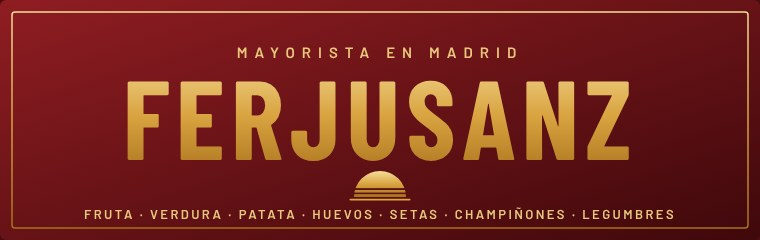
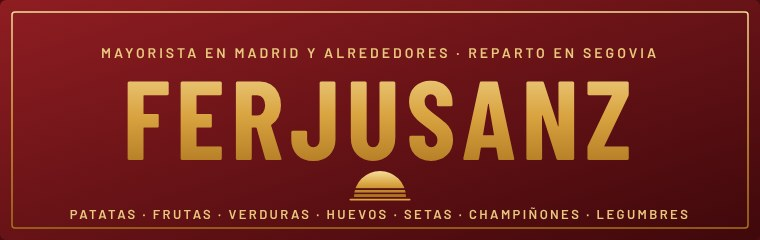
Normal v526: lema en plural y etiqueta Madrid y alrededores
Claude-Session: https://claude.ai/code/session_01VB7xFS7qSDwvsHkpYjW2Um

Changed region(s): [[0.1211, 0.175, 0.8776, 0.2625], [0.0908, 0.875, 0.9079, 0.9333]]

diff --git a/public/nuevos-clientes.html b/public/nuevos-clientes.html
@@ -4,7 +4,7 @@
 <meta charset="utf-8">
 <meta name="viewport" content="width=device-width, initial-scale=1">
 <title>Ferjusanz · Fruta y verdura de Mercamadrid para tu cocina</title>
-<meta name="description" content="Mayorista de fruta, verdura, patatas, huevos, setas, champiñones y legumbres en Mercamadrid. Reparto en Madrid y Segovia, sin pedido mínimo. Pide tu primer pedido de prueba para tu restaurante, bar, colegio o residencia.">
+<meta name="description" content="Mayorista de patatas, frutas, verduras, huevos, setas, champiñones y legumbres en Mercamadrid. Reparto en Madrid y Segovia, sin pedido mínimo. Pide tu primer pedido de prueba para tu restaurante, bar, colegio o residencia.">
 <meta property="og:title" content="Ferjusanz · Pide tu primer pedido de prueba">
 <meta property="og:description" content="Fruta y verdura de Mercamadrid para hostelería y colectividades de Madrid y Segovia. Sin pedido mínimo.">
 <meta name="theme-color" content="#166534">
@@ -72,7 +72,7 @@ footer a { color: var(--gris); }
 <section class="ancho">
   <h2>¿Por qué Ferjusanz?</h2>
   <div class="ventajas">
-    <div class="ventaja"><span class="ico">🏪</span><div><b>Desde dentro de Mercamadrid</b>Mayorista de fruta, verdura, patatas, huevos, setas, champiñones y legumbres. Tres generaciones en el sector.</div></div>
+    <div class="ventaja"><span class="ico">🏪</span><div><b>Desde dentro de Mercamadrid</b>Mayorista de patatas, frutas, verduras, huevos, setas, champiñones y legumbres. Tres generaciones en el sector.</div></div>
     <div class="ventaja"><span class="ico">🚚</span><div><b>Sin pedido mínimo</b>Repartimos en Madrid y Segovia. Pide lo que necesites, aunque sea poco.</div></div>
     <div class="ventaja"><span class="ico">🥬</span><div><b>Género elegido para tu cocina</b>Te decimos qué está bueno y a buen precio cada semana.</div></div>
     <div class="ventaja"><span class="ico">📲</span><div><b>Pedir es fácil</b>Por teléfono o WhatsApp. Si no ves un producto, te lo buscamos.</div></div>

diff --git a/public/sw.js b/public/sw.js
@@ -1,7 +1,7 @@
 // Service worker de Ferjusanz: permite abrir la app sin conexión.
 // Guarda la propia app y la librería de Supabase. Los datos NUNCA se guardan aquí
 // (las llamadas a supabase.co siempre van a la red).
-const CACHE = 'ferjusanz-v524';
+const CACHE = 'ferjusanz-v526';
 const SHELL = ['./', 'index.html', 'manifest.webmanifest', 'icon-192.png?v=sol', 'icon-512.png?v=sol', 'pres/logo.png', 'pres/logo.jpg', 'pres/etiqueta.jpg'];
 // Librería de Supabase (la misma dirección que usa index.html): se guarda en la instalación
 // para que la app arranque aunque no haya conexión.
